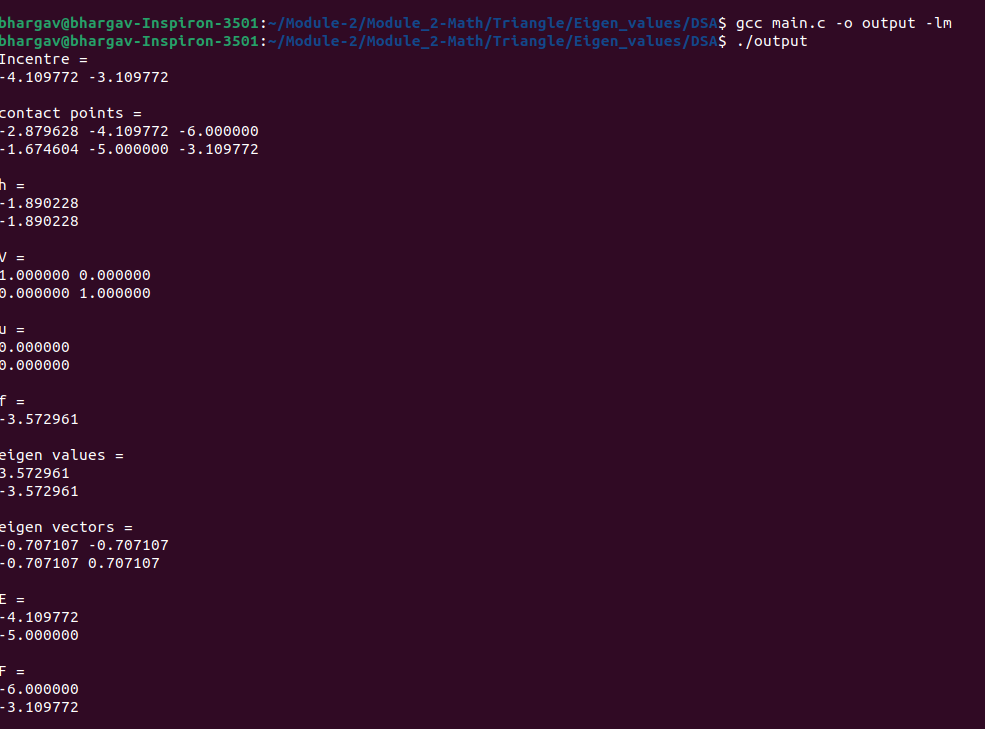
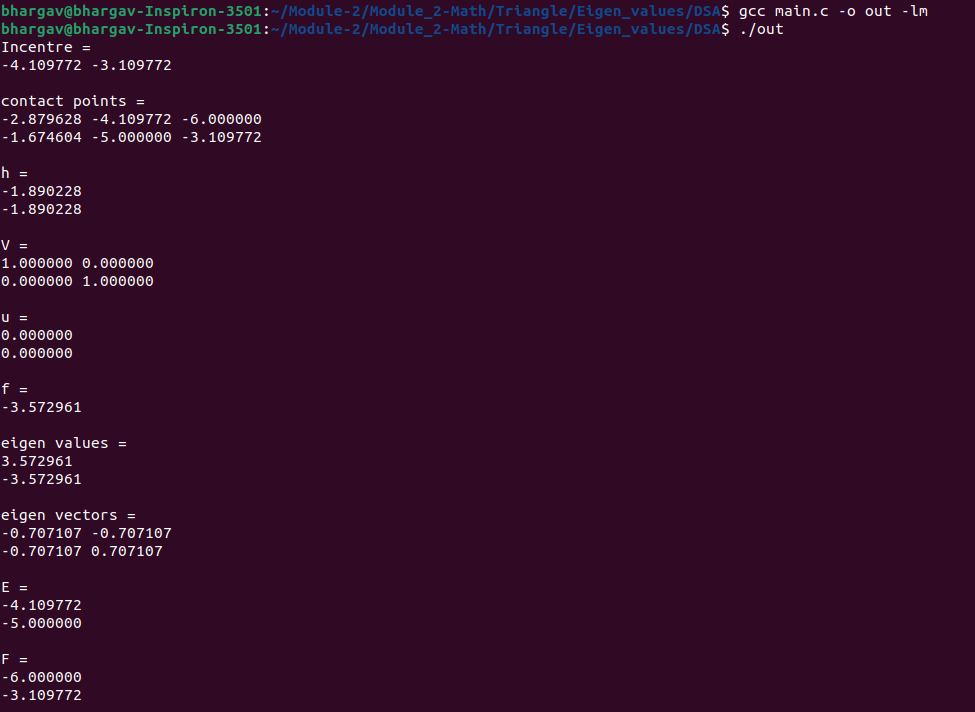
Add files via upload

diff --git a/Triangle/Eigen_values/DSA/main.c b/Triangle/Eigen_values/DSA/main.c
@@ -35,6 +35,7 @@ avyuh *R_o = rotList(M_PI/2);
 		avyuh *G_dir=VertToList(M1,M2,M3);
 		avyuh *G_n=Listmul(R_o,G_dir);
 		avyuh *G_con= Listdiag(Listmul(transposeList(G_n),G_v));
+		avyuh *G_con1=circulantList(G_v);
 		avyuh *G_dis= Listsqrtdiag(Listmul(transposeList(G_dir),G_dir));
 		avyuh *G_line=Liststack(G_n,G_con);
 //************************************MEDIANS***************************************
@@ -54,7 +55,8 @@ avyuh *R_o = rotList(M_PI/2);
 	 	avyuh *linemat_perp_bis=Liststack(G_n_alt,cmat_perp_bis);
 	 	avyuh *G_O=line_intersect(linemat_perp_bis);
 //*****************************ANGULAR BISECTOR*************************************
-		avyuh *secvec=Listmul(G_dis,C_in);
+		avyuh *secvec=Listmul(G_dis,C_in); //m, n , p values
+		
 		avyuh *i_con = sample_assign(secvec,G_dis);
 
 		avyuh *a_dir=Listmul(G_v,i_con);
@@ -98,7 +100,7 @@ cont_mat->next->next->vector->next->next->data=0;
 	f->vector->data=sqrt( pow( G_I->vector->data-G_i->vector->data,2 ) + pow(G_I->vector->next->data-G_i->next->vector->data,2)  );
 	f->vector->data=-pow(f->vector->data,2);
 
-	//g(h)= transpose(h)*h*V + 2*transpose(u)*h + f
+	//g(h)= transpose(h)*h*V + 2*transpose(u)*x + f
 	avyuh *gh=Listadd( Listadd(  Listmul( Listmul(transposeList(h),V ),h ),Listscale( Listmul( transposeList(u),h ) ,2) ),f );
 
 	//sigma= (V*h +u) * transpose(Vh+u) - g(h)*V
@@ -248,14 +250,14 @@ printList(f);
 /*printf("gh = \n");
 printList(gh);
 printf("sigmat = \n");
-printList(sigmat);
+printList(sigmat);*/
 printf("eigen values = \n");
 printList(E_val);
 printf("eigen vectors = \n");
 printList(P);
 
 
-printf("u1 = \n");
+/*printf("u1 = \n");
 printList(u1);
 printf("u2 = \n");
 printList(u2);
